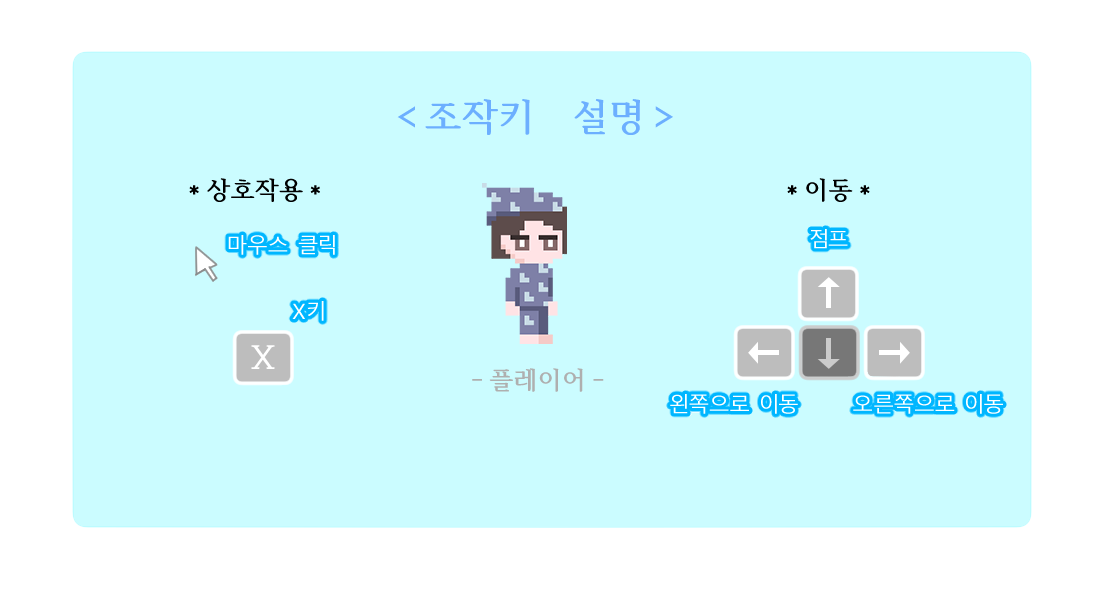
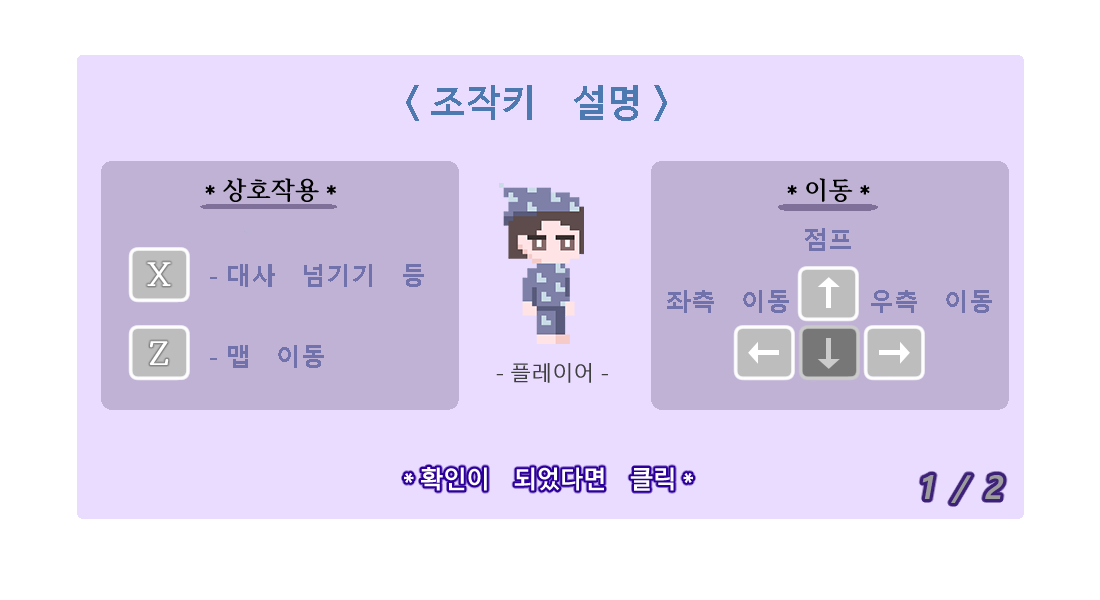
조작법 설명 이미지 수정&추가,  자잘한 오류 수정

diff --git a/assets/js/stages/SecondStage.js b/assets/js/stages/SecondStage.js
@@ -179,6 +179,19 @@ export default class SecondStage extends Phaser.Scene {
         this.cry = this.add.sprite( 900, 300, 'cry', 0);
         this.cry.setVisible(false);
 
+        
+
+        /*** 명령창 불러오기 ***/
+        this.codeapp_onoff_state = 0; // 명령창 열리고 닫힘을 나타내는 상태 변수 (command, draganddrop에서 쓰임)
+        this.command = new Command(this, map, "second_stage");
+        /** 휴대폰 킨 상태로 맵 이동했을때 휴대폰 꺼져있도록**/
+        this.command.commandbox.setVisible(false);
+        for(var i=0; i < this.command.apps.length; i++){
+            this.command.apps[i].setVisible(this.command.commandbox.visible);
+            console.log(this.command.apps[i].visible);
+        }
+        this.command.back_button.setVisible(this.command.commandbox.visible);
+
         //quest box 이미지 로드
         this.questbox = this.add.image(this.worldView.x,500,'quest_box').setOrigin(0,0);
 
@@ -200,18 +213,6 @@ export default class SecondStage extends Phaser.Scene {
         this.questbox.setVisible(false);
         this.quest_text1.setVisible(false);
         this.quest_text2.setVisible(false);
-
-        /*** 명령창 불러오기 ***/
-        this.codeapp_onoff_state = 0; // 명령창 열리고 닫힘을 나타내는 상태 변수 (command, draganddrop에서 쓰임)
-        this.command = new Command(this, map, "second_stage");
-        /** 휴대폰 킨 상태로 맵 이동했을때 휴대폰 꺼져있도록**/
-        this.command.commandbox.setVisible(false);
-        for(var i=0; i < this.command.apps.length; i++){
-            this.command.apps[i].setVisible(this.command.commandbox.visible);
-            console.log(this.command.apps[i].visible);
-        }
-        this.command.back_button.setVisible(this.command.commandbox.visible);
-
 
         /** 플레이어 위치 확인용 **/
         this.playerCoord = this.add.text(10, 10, '', { font: '16px Courier', fill: '#00ff00' });

diff --git a/assets/js/Start.js b/assets/js/Start.js
@@ -51,7 +51,8 @@ class Start extends Phaser.Scene {
       this.load.image("map_button", "./assets/images/command/map_button.png");
 
       this.load.image("tutorial", "./assets/images/tutorial.png");
-      this.load.image("ok_button", "./assets/images/OK_button.png");
+      this.load.image("tutorial2", "./assets/images/tutorial2.png");
+      
 
       //나중에 지우기 ======================================
               this.load.image("tiles", "./assets/images/map.png");
@@ -328,10 +329,10 @@ class Start extends Phaser.Scene {
         this.play('load');
       });
 
-      this.isnewgame=false;
+      this.isnewgame=0;
       // 클릭하면 게임 시작
       this.NEW_GAME_button.once("pointerup", function () {
-        this.isnewgame=true;
+        this.isnewgame=1;
       }, this);
       this.CONTINUE_button.once("pointerup", function () {
         this.scene.start("third_stage_0");
@@ -357,11 +358,17 @@ class Start extends Phaser.Scene {
       */
 
 
-      if(this.isnewgame){
+      if(this.isnewgame==1){
         this.tutorial = this.add.image(0,0,"tutorial").setOrigin(0,0);
-        this.ok_button = this.add.image(550,450,"ok_button");
-        this.ok_button.setInteractive();
-        this.ok_button.once("pointerdown",function(){
+        this.tutorial.setInteractive();
+        this.tutorial.once("pointerdown",function(){
+          this.isnewgame=2;
+          this.tutorial.setVisible(false);
+        },this);
+      }else if(this.isnewgame==2){
+        this.tutorial2 = this.add.image(0,0,"tutorial2").setOrigin(0,0);
+        this.tutorial2.setInteractive();
+        this.tutorial2.once("pointerdown",function(){
           this.scene.start("zero_stage");
         },this);
       }

diff --git a/assets/js/stages/FifthStage.js b/assets/js/stages/FifthStage.js
@@ -857,7 +857,7 @@ export default class FifthStage extends Phaser.Scene {
                 .load(this.dialog.stage5_4, this.dialog)
                 .start();
                 seq.on('complete', () => {
-                    
+                    this.membership_card.x=this.worldView.x+350;
                     this.function=4;
                 });
             }, [], this);   
@@ -918,6 +918,7 @@ export default class FifthStage extends Phaser.Scene {
         console.log("stage5_7");
         this.membership_card.setAlpha(0);
         this.membership_card.y=600;
+        this.membership_card.x=this.worldView.x+350;
         this.librarian1.anims.stop();
         this.librarian1.setFlipX(true);
         
